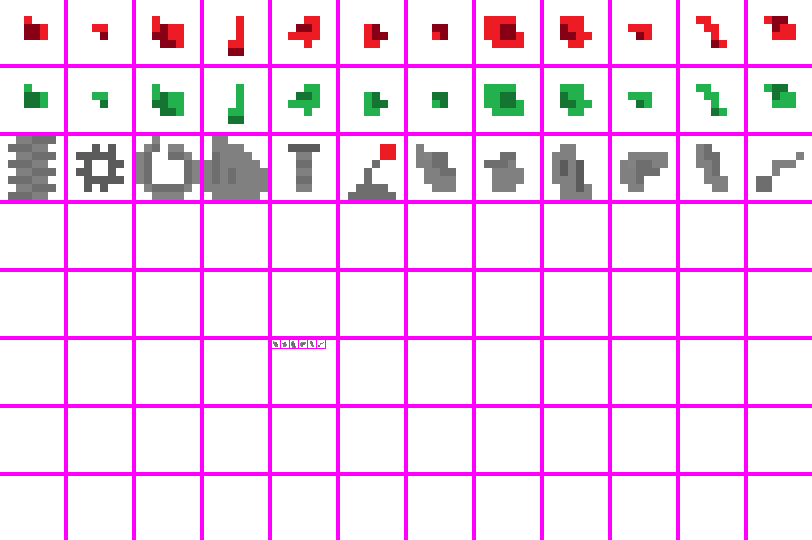
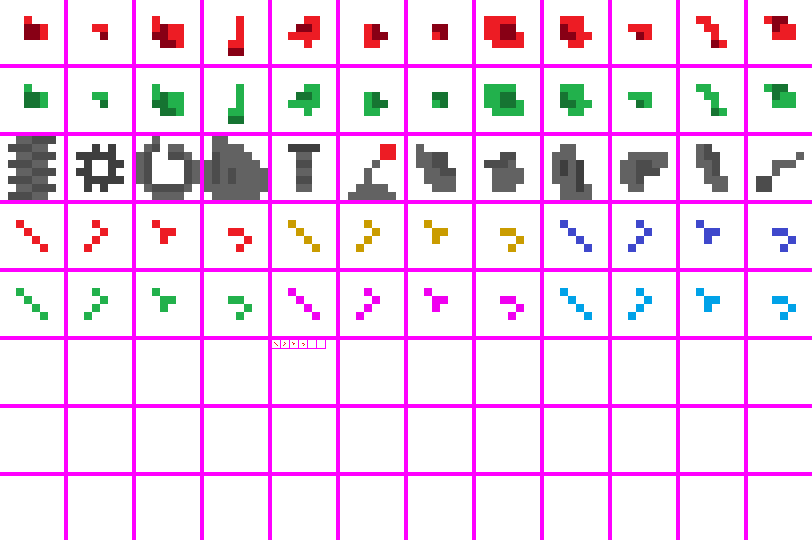
spark particles

diff --git a/app/src/gameplay/entities/particles/sparkParticle.js b/app/src/gameplay/entities/particles/sparkParticle.js
@@ -1,0 +1,62 @@
+class _SparkParticle extends _Particle {
+
+    constructor(direction, x, y){
+        super(direction, x, y);
+        this.duration = Util.randInt(30, 60);
+        this.displaySize = Util.randFloat(0.2, 0.4);
+        this.speed = Util.randFloat(0.05, 0.08);
+    }
+
+    animate(){
+        this.rotate(8);
+    }
+
+}
+
+class RedSparkParticle extends _SparkParticle {
+    constructor(direction, x, y){
+        super(direction, x, y);   
+        this.tileX = Util.randInt(0, 3);
+        this.tileY = 3;
+    }
+}
+
+class YellowSparkParticle extends _SparkParticle {
+    constructor(direction, x, y){
+        super(direction, x, y);   
+        this.tileX = Util.randInt(4, 7);
+        this.tileY = 3;
+    }
+}
+
+class BlueSparkParticle extends _SparkParticle {
+    constructor(direction, x, y){
+        super(direction, x, y);   
+        this.tileX = Util.randInt(8, 11);
+        this.tileY = 3;
+    }
+}
+
+class GreenSparkParticle extends _SparkParticle {
+    constructor(direction, x, y){
+        super(direction, x, y);   
+        this.tileX = Util.randInt(0, 3);
+        this.tileY = 4;
+    }
+}
+
+class MagentaSparkParticle extends _SparkParticle {
+    constructor(direction, x, y){
+        super(direction, x, y);   
+        this.tileX = Util.randInt(4, 7);
+        this.tileY = 4;
+    }
+}
+
+class CyanSparkParticle extends _SparkParticle {
+    constructor(direction, x, y){
+        super(direction, x, y);   
+        this.tileX = Util.randInt(8, 11);
+        this.tileY = 4;
+    }
+}

diff --git a/app/src/canvasManager/stagePainter.js b/app/src/canvasManager/stagePainter.js
@@ -37,7 +37,7 @@ const StagePainter = {
     },
 
     _doPaint(){        
-        if(PauseHandler.paused) return;
+        // if(PauseHandler.paused) return; // <- CANVAS WOULD BLACK OUT ON RESIZE WHEN
         var stg = StageManager.currentStage;
         if(!stg) return;
         var c = StagePainter.calcDisplaySizes();
@@ -153,21 +153,15 @@ const StagePainter = {
     },
 
     drawShadows(c, shadowsHolder){
-        // c.ctx.fillStyle = '#000000';
         for(var x = Math.floor(c.xMin); x <= Math.ceil(c.xMax); x++){
             for(var y = Math.floor(c.yMin); y <= Math.ceil(c.yMax); y++){ 
                 var dx = x - c.xMin;
                 var dy = y - c.yMin;
-                // var dx = (x - c.xMin - 0.5) * c.unit + c.vOffset;
-                // var dy = (y - c.yMin - 0.5) * c.unit + c.hOffset;
                 var opacity = shadowsHolder.get(x, y)/(ShadowsCalculator.MAX_DEPTH);
-                // c.ctx.fillRect(dx + 1, dy + 1, c.unit - 2, c.unit - 2);
-                // opacity = opacity < ShadowsCalculator.LIM_OPACITY ? opacity : ShadowsCalculator.LIM_OPACITY;
                 CanvasManager.paintImageAt(ImageLoader.misc, 3, 0, c.unit,
                    dx, dy, c.vOffset, c.hOffset, 1, opacity); 
             }
         }
-        // c.ctx.globalAlpha = 1;
     },
 
     drawDamageAnimations(c){

diff --git a/app/src/gameplay/userInputHandler.js b/app/src/gameplay/userInputHandler.js
@@ -10,7 +10,7 @@ const UserInputHandler = {
         left : false,       // - is mouse left button down
         middle : false,     // - is mouse middle button down
         right : false,      // - is mouse right button down
-        wheel : 0,          // - mouse wheel state, reduced on mouse down, increased on mouse up
+        wheel : 0,          // - mouse wheel state, decremented on mouse down, incremented on mouse up
     },
 
     init(){
@@ -27,6 +27,7 @@ const UserInputHandler = {
     onKeyDown(e){
         var k = e.which;
         this.keys[k] = true;
+        console.log(k);
     },
 
     onKeyUp(e){
@@ -42,6 +43,13 @@ const UserInputHandler = {
         keySymbol = keySymbol.charCodeAt(0);
         if(keySymbol in this.keys){
             return this.keys[keySymbol];
+        }
+        return false;
+    },
+
+    isEscDown(){
+        if(27 in this.keys){ // 27 is the 'key' of the escape key on the keboard
+            return this.keys[27];
         }
         return false;
     },

diff --git a/app/src/gameplay/entities/projectiles/weapon4R3Projectile.js b/app/src/gameplay/entities/projectiles/weapon4R3Projectile.js
@@ -5,13 +5,13 @@ class Weapon4R3Projectile extends _DamagingProjectile {
         // super constructor
         super(parentEntity, direction, x, y);
 
-        this.speed = 0.14;
+        this.speed = Util.randFloat(0.12, 0.16);
         this.minDmg = 1;
         this.maxDmg = 3;
-        this.duration = 60;
+        this.duration = Util.randInt(50, 70);
         this.accuracy = 92;
         
-        this.tileX = 2;
+        this.tileX = 8;
         this.tileY = 1;
         
         this.collisionSize = 0.1;
@@ -21,6 +21,14 @@ class Weapon4R3Projectile extends _DamagingProjectile {
 
     animate(){
         
+    }
+
+    _onExpire(){
+        super._onExpire();
+        var numberOfProjectiles = Util.randInt(1, 2);
+        for(var i = 0; i < numberOfProjectiles; i++){
+            ParticleSpawner.spawn(RedSparkParticle,  this.x, this.y);
+        }
     }
 
 }

diff --git a/app/src/gameplay/entities/projectiles/weapon10B3Projectile.js b/app/src/gameplay/entities/projectiles/weapon10B3Projectile.js
@@ -11,7 +11,7 @@ class Weapon10B3Projectile extends _DamagingProjectile {
         this.duration = 100;
         this.accuracy = 98;
         
-        this.tileX = 2;
+        this.tileX = 8;
         this.tileY = 3;
         
         this.collisionSize = 0.6;
@@ -24,8 +24,12 @@ class Weapon10B3Projectile extends _DamagingProjectile {
     }
 
     _onCollisionWithMonster(m){
-        m.takeDmg(this.calculateDamage());
         // this one does not expire on collision WITH MONSTER
+        m.takeDmg(this.calculateDamage());
+        var numberOfProjectiles = Util.randInt(2, 5);
+        for(var i = 0; i < numberOfProjectiles; i++){
+            ParticleSpawner.spawn(CyanSparkParticle,  this.x, this.y);
+        }
     }
 
 }

diff --git a/app/src/gameplay/entities/projectiles/weapon7Y3Projectile.js b/app/src/gameplay/entities/projectiles/weapon7Y3Projectile.js
@@ -11,7 +11,7 @@ class Weapon7Y3Projectile extends _DamagingProjectile {
         this.duration = 100;
         this.accuracy = 99;
         
-        this.tileX = 2;
+        this.tileX = 8;
         this.tileY = 2;
         
         this.collisionSize = 0.2;
@@ -21,6 +21,14 @@ class Weapon7Y3Projectile extends _DamagingProjectile {
 
     animate(){
         
+    }
+
+    _onExpire(){
+        super._onExpire();
+        var numberOfProjectiles = Util.randInt(15, 30);
+        for(var i = 0; i < numberOfProjectiles; i++){
+            ParticleSpawner.spawn(YellowSparkParticle,  this.x, this.y);
+        }
     }
 
 }

diff --git a/app/src/gameplay/entities/projectiles/weapon6Y2Projectile.js b/app/src/gameplay/entities/projectiles/weapon6Y2Projectile.js
@@ -11,7 +11,7 @@ class Weapon6Y2Projectile extends _DamagingProjectile {
         this.duration = 90;
         this.accuracy = 99.5;
         
-        this.tileX = 1;
+        this.tileX = 4;
         this.tileY = 2;
         
         this.collisionSize = 0.1;
@@ -21,6 +21,14 @@ class Weapon6Y2Projectile extends _DamagingProjectile {
 
     animate(){
         
+    }
+
+    _onExpire(){
+        super._onExpire();
+        var numberOfProjectiles = Util.randInt(2, 8);
+        for(var i = 0; i < numberOfProjectiles; i++){
+            ParticleSpawner.spawn(YellowSparkParticle,  this.x, this.y);
+        }
     }
 
 }

diff --git a/app/src/gameplay/entities/projectiles/weapon3R2Projectile.js b/app/src/gameplay/entities/projectiles/weapon3R2Projectile.js
@@ -11,7 +11,7 @@ class Weapon3R2Projectile extends _DamagingProjectile {
         this.duration = 120;
         this.accuracy = 100;
         
-        this.tileX = 1;
+        this.tileX = 4;
         this.tileY = 1;
         
         this.collisionSize = 0.3;
@@ -21,6 +21,14 @@ class Weapon3R2Projectile extends _DamagingProjectile {
 
     animate(){
         
+    }
+
+    _onExpire(){
+        super._onExpire();
+        var numberOfProjectiles = Util.randInt(5, 10);
+        for(var i = 0; i < numberOfProjectiles; i++){
+            ParticleSpawner.spawn(RedSparkParticle,  this.x, this.y);
+        }
     }
 
 }

diff --git a/app/src/gameplay/entities/projectiles/weapon9B2Projectile.js b/app/src/gameplay/entities/projectiles/weapon9B2Projectile.js
@@ -11,7 +11,7 @@ class Weapon9B2Projectile extends _DamagingProjectile {
         this.duration = 100;
         this.accuracy = 97;
         
-        this.tileX = 1;
+        this.tileX = 4;
         this.tileY = 3;
         
         this.collisionSize = 0.05;
@@ -21,6 +21,14 @@ class Weapon9B2Projectile extends _DamagingProjectile {
 
     animate(){
         
+    }
+
+    _onExpire(){
+        super._onExpire();
+        var numberOfProjectiles = Util.randInt(1, 2);
+        for(var i = 0; i < numberOfProjectiles; i++){
+            ParticleSpawner.spawn(CyanSparkParticle,  this.x, this.y);
+        }
     }
 
 }

diff --git a/app/index.html b/app/index.html
@@ -69,6 +69,7 @@
 	<script src="src/gameplay/entities/particles/bloodParticle.js"></script>
 	<script src="src/gameplay/entities/particles/zombieGutsParticle.js"></script>
 	<script src="src/gameplay/entities/particles/scrapParticle.js"></script>
+	<script src="src/gameplay/entities/particles/sparkParticle.js"></script>
 	<script src="src/gameplay/entities/particles/particleSpawner.js"></script>
 	<script src="src/gameplay/entities/players/player.js"></script>
 	<script src="src/gameplay/entities/monsters/_monster.js"></script>

diff --git a/app/src/gameplay/entities/projectiles/weapon5Y1Projectile.js b/app/src/gameplay/entities/projectiles/weapon5Y1Projectile.js
@@ -23,4 +23,12 @@ class Weapon5Y1Projectile extends _DamagingProjectile {
         
     }
 
+    _onExpire(){
+        super._onExpire();
+        var numberOfProjectiles = Util.randInt(2, 5);
+        for(var i = 0; i < numberOfProjectiles; i++){
+            ParticleSpawner.spawn(YellowSparkParticle,  this.x, this.y);
+        }
+    }
+
 }

diff --git a/app/src/gameplay/entities/projectiles/weapon8B1Projectile.js b/app/src/gameplay/entities/projectiles/weapon8B1Projectile.js
@@ -23,4 +23,12 @@ class Weapon8B1Projectile extends _DamagingProjectile {
         
     }
 
+    _onExpire(){
+        super._onExpire();
+        var numberOfProjectiles = Util.randInt(3, 7);
+        for(var i = 0; i < numberOfProjectiles; i++){
+            ParticleSpawner.spawn(CyanSparkParticle,  this.x, this.y);
+        }
+    }
+
 }
